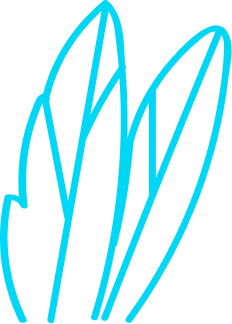
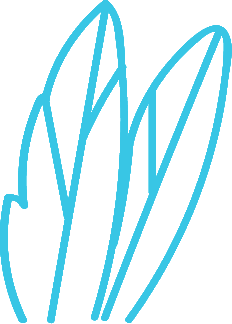
.

Changed region(s): [[0.0, 0.0, 1.0, 1.0]]

diff --git a/index.scss b/index.scss
@@ -737,7 +737,7 @@ $box-shadow-hover: 1px 1px 3px #3f3b51a2,
         display: flex;
         flex-direction: column;
         overflow: visible;
-        margin-bottom: 50px;
+        margin-bottom: 25px;
 
         .footer-navigation {
             overflow: visible;
@@ -764,8 +764,9 @@ $box-shadow-hover: 1px 1px 3px #3f3b51a2,
                     padding: 10px;
                     margin-left: -10px;
 
-                    &:hover {
-                        text-decoration: solid 2px underline #3BD3F4;
+                    .home {
+                        text-decoration: 2px #38C6E5 underline;
+
                     }
                 }
 
@@ -781,13 +782,13 @@ $box-shadow-hover: 1px 1px 3px #3f3b51a2,
             &::before {
                 display: block;
                 content: '';
-                background-image: url('./images/leaves2.png');
+                background-image: url('./images/leaves.png');
                 background-repeat: no-repeat;
                 background-size: contain;
-                height: 100px;
+                height: 125px;
                 width: 125px;
                 position: absolute;
-                right: calc(-60px + 3vw);
+                right: -45px;
                 bottom: 112px;
             }
 
@@ -840,6 +841,7 @@ $box-shadow-hover: 1px 1px 3px #3f3b51a2,
     .footer-bottom {
         background-color: #38C6E5;
         text-align: center;
+        font-size: 14px;
 
         a:hover {
             color: white;
@@ -879,45 +881,64 @@ $box-shadow-hover: 1px 1px 3px #3f3b51a2,
         margin-bottom: 75px;
         overflow: visible;
 
-
         &::after {
             border-bottom: 4px solid #3BD3F4;
         }
 
         .footer-navigation {
-            width: 50%;
+            width: 65vw;
+            position: relative;
+            overflow: visible;
+
+            &::before {
+                display: block;
+                content: '';
+                background-image: url('./images/leaves.png');
+                background-repeat: no-repeat;
+                background-size: contain;
+                height: 125px;
+                width: 125px;
+                position: absolute;
+                left: 0px;
+                top: -90px;
+            }
 
             h2 {
                 color: white;
                 margin-bottom: 15px;
                 padding-bottom: 5px;
-                border-bottom: 4px solid #3BD3F4;
-                padding-left: 25px;
+                border-bottom: 4px solid #38C6E5;
+                padding-left: 110px;
             }
 
             ul {
-                padding-left: 25px;
+
+                display: flex;
+                flex-direction: row;
 
                 li {
                     line-height: 1.75;
-                    margin: 7.5px 0px;
-                    display: flex;
-                    flex-direction: row;
+                    margin: 2.5px 15px;
 
                     a {
                         color: white;
+                        padding: 5px;
+                    }
+
+                    .home {
+                        text-decoration: 2px solid #38C6E5 underline;
 
                     }
+
                 }
             }
-
         }
 
         .footer-contact {
             position: relative;
             display: flex;
             flex-direction: column;
-            width: 50%;
+            width: 70%;
             overflow: visible;
 
             &::after {
@@ -929,7 +950,7 @@ $box-shadow-hover: 1px 1px 3px #3f3b51a2,
                 height: 125px;
                 width: 125px;
                 position: absolute;
-                right: calc(-60px + 3vw);
+                right: -45px;
                 top: -90px;
             }
 
@@ -938,17 +959,27 @@ $box-shadow-hover: 1px 1px 3px #3f3b51a2,
                 margin-bottom: 15px;
                 padding-bottom: 5px;
                 border-bottom: 4px solid #3BD3F4;
+                padding-left: 75px;
+
             }
 
             div {
                 display: flex;
                 flex-direction: column;
+                padding-left: 50px;
+                position: relative;
+                margin: 7.5px 15px;
+
             }
 
             a {
                 color: white;
-                margin-left: 30px;
+                margin-left: 40px;
                 margin-bottom: 15px;
+
+                &:hover {
+                    text-decoration: 2px underline #38C6E5;
+                }
             }
 
             a:nth-child(1)::before {
@@ -958,9 +989,11 @@ $box-shadow-hover: 1px 1px 3px #3f3b51a2,
                 background-image: url('./images/mail.png');
                 background-size: contain;
                 background-repeat: no-repeat;
-                width: 25px;
-                height: 25px;
-                left: 0;
+                width: 20px;
+                height: 20px;
+                left: 60px;
+                top: 3px;
+
             }
 
             a:nth-child(2)::before {
@@ -970,15 +1003,16 @@ $box-shadow-hover: 1px 1px 3px #3f3b51a2,
                 background-image: url('./images/phone.png');
                 background-size: contain;
                 background-repeat: no-repeat;
-                width: 25px;
-                height: 25px;
-                left: 2px;
+                width: 20px;
+                height: 20px;
+                left: 62px;
+                top: 45px;
             }
         }
     }
 
     .footer-bottom {
-        background-color: #3BD3F4;
+        background-color: #38C6E5;
         text-align: center;
 
         a:hover {

diff --git a/index.css b/index.css
@@ -591,7 +591,7 @@
     display: flex;
     flex-direction: column;
     overflow: visible;
-    margin-bottom: 50px;
+    margin-bottom: 25px;
   }
   .footer-content .footer-navigation {
     overflow: visible;
@@ -615,9 +615,9 @@
     padding: 10px;
     margin-left: -10px;
   }
-  .footer-content .footer-navigation ul li a:hover {
-    -webkit-text-decoration: solid 2px underline #3BD3F4;
-            text-decoration: solid 2px underline #3BD3F4;
+  .footer-content .footer-navigation ul li a .home {
+    -webkit-text-decoration: 2px #38C6E5 underline;
+            text-decoration: 2px #38C6E5 underline;
   }
   .footer-content .footer-contact {
     margin-top: 50px;
@@ -628,13 +628,13 @@
   .footer-content .footer-contact::before {
     display: block;
     content: "";
-    background-image: url("./images/leaves2.png");
+    background-image: url("./images/leaves.png");
     background-repeat: no-repeat;
     background-size: contain;
-    height: 100px;
+    height: 125px;
     width: 125px;
     position: absolute;
-    right: calc(-60px + 3vw);
+    right: -45px;
     bottom: 112px;
   }
   .footer-content .footer-contact h2 {
@@ -678,6 +678,7 @@
   .footer-bottom {
     background-color: #38C6E5;
     text-align: center;
+    font-size: 14px;
   }
   .footer-bottom a:hover {
     color: white;
@@ -713,32 +714,50 @@
     border-bottom: 4px solid #3BD3F4;
   }
   .footer-content .footer-navigation {
-    width: 50%;
+    width: 65vw;
+    position: relative;
+    overflow: visible;
+  }
+  .footer-content .footer-navigation::before {
+    display: block;
+    content: "";
+    background-image: url("./images/leaves.png");
+    background-repeat: no-repeat;
+    background-size: contain;
+    height: 125px;
+    width: 125px;
+    position: absolute;
+    left: 0px;
+    top: -90px;
   }
   .footer-content .footer-navigation h2 {
     color: white;
     margin-bottom: 15px;
     padding-bottom: 5px;
-    border-bottom: 4px solid #3BD3F4;
-    padding-left: 25px;
+    border-bottom: 4px solid #38C6E5;
+    padding-left: 110px;
   }
   .footer-content .footer-navigation ul {
-    padding-left: 25px;
-  }
-  .footer-content .footer-navigation ul li {
-    line-height: 1.75;
-    margin: 7.5px 0px;
     display: flex;
     flex-direction: row;
   }
+  .footer-content .footer-navigation ul li {
+    line-height: 1.75;
+    margin: 2.5px 15px;
+  }
   .footer-content .footer-navigation ul li a {
     color: white;
+    padding: 5px;
+  }
+  .footer-content .footer-navigation ul li .home {
+    -webkit-text-decoration: 2px solid #38C6E5 underline;
+            text-decoration: 2px solid #38C6E5 underline;
   }
   .footer-content .footer-contact {
     position: relative;
     display: flex;
     flex-direction: column;
-    width: 50%;
+    width: 70%;
     overflow: visible;
   }
   .footer-content .footer-contact::after {
@@ -750,7 +769,7 @@
     height: 125px;
     width: 125px;
     position: absolute;
-    right: calc(-60px + 3vw);
+    right: -45px;
     top: -90px;
   }
   .footer-content .footer-contact h2 {
@@ -758,15 +777,23 @@
     margin-bottom: 15px;
     padding-bottom: 5px;
     border-bottom: 4px solid #3BD3F4;
+    padding-left: 75px;
   }
   .footer-content .footer-contact div {
     display: flex;
     flex-direction: column;
+    padding-left: 50px;
+    position: relative;
+    margin: 7.5px 15px;
   }
   .footer-content .footer-contact a {
     color: white;
-    margin-left: 30px;
+    margin-left: 40px;
     margin-bottom: 15px;
+  }
+  .footer-content .footer-contact a:hover {
+    -webkit-text-decoration: 2px underline #38C6E5;
+            text-decoration: 2px underline #38C6E5;
   }
   .footer-content .footer-contact a:nth-child(1)::before {
     display: block;
@@ -775,9 +802,10 @@
     background-image: url("./images/mail.png");
     background-size: contain;
     background-repeat: no-repeat;
-    width: 25px;
-    height: 25px;
-    left: 0;
+    width: 20px;
+    height: 20px;
+    left: 60px;
+    top: 3px;
   }
   .footer-content .footer-contact a:nth-child(2)::before {
     display: block;
@@ -786,12 +814,13 @@
     background-image: url("./images/phone.png");
     background-size: contain;
     background-repeat: no-repeat;
-    width: 25px;
-    height: 25px;
-    left: 2px;
+    width: 20px;
+    height: 20px;
+    left: 62px;
+    top: 45px;
   }
   .footer-bottom {
-    background-color: #3BD3F4;
+    background-color: #38C6E5;
     text-align: center;
   }
   .footer-bottom a:hover {

diff --git a/index.html b/index.html
@@ -327,11 +327,11 @@
                 <div class="footer-navigation">
                     <h2>Navigation</h2>
                     <ul>
-                        <li><a href="index.html">Home</a></li>
-                        <li><a href="./about/about.html">About</a></li>
-                        <li><a href="./services/services.html">Services</a></li>
-                        <li><a href="./blog/blog.html">Blog</a></li>
-                        <li><a href="./contact/contact.html">Contact</a></li>
+                        <li><a class="home" href="index.html">Home</a></li>
+                        <li><a class="about" href="./about/about.html">About</a></li>
+                        <li><a class="services" href="./services/services.html">Services</a></li>
+                        <li><a class="blog" href="./blog/blog.html">Blog</a></li>
+                        <li><a class="contact" href="./contact/contact.html">Contact</a></li>
                     </ul>
                 </div>
 
